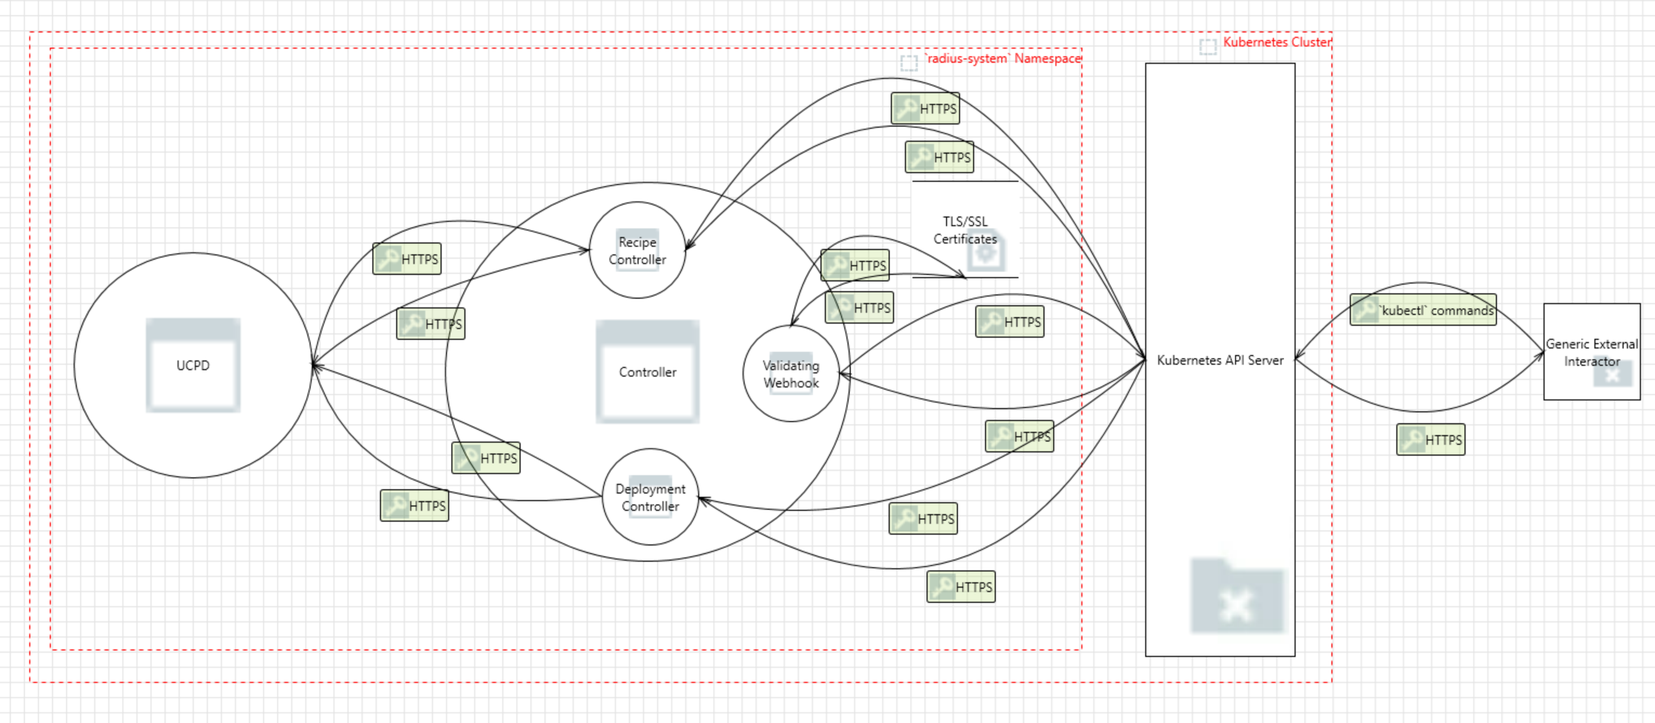
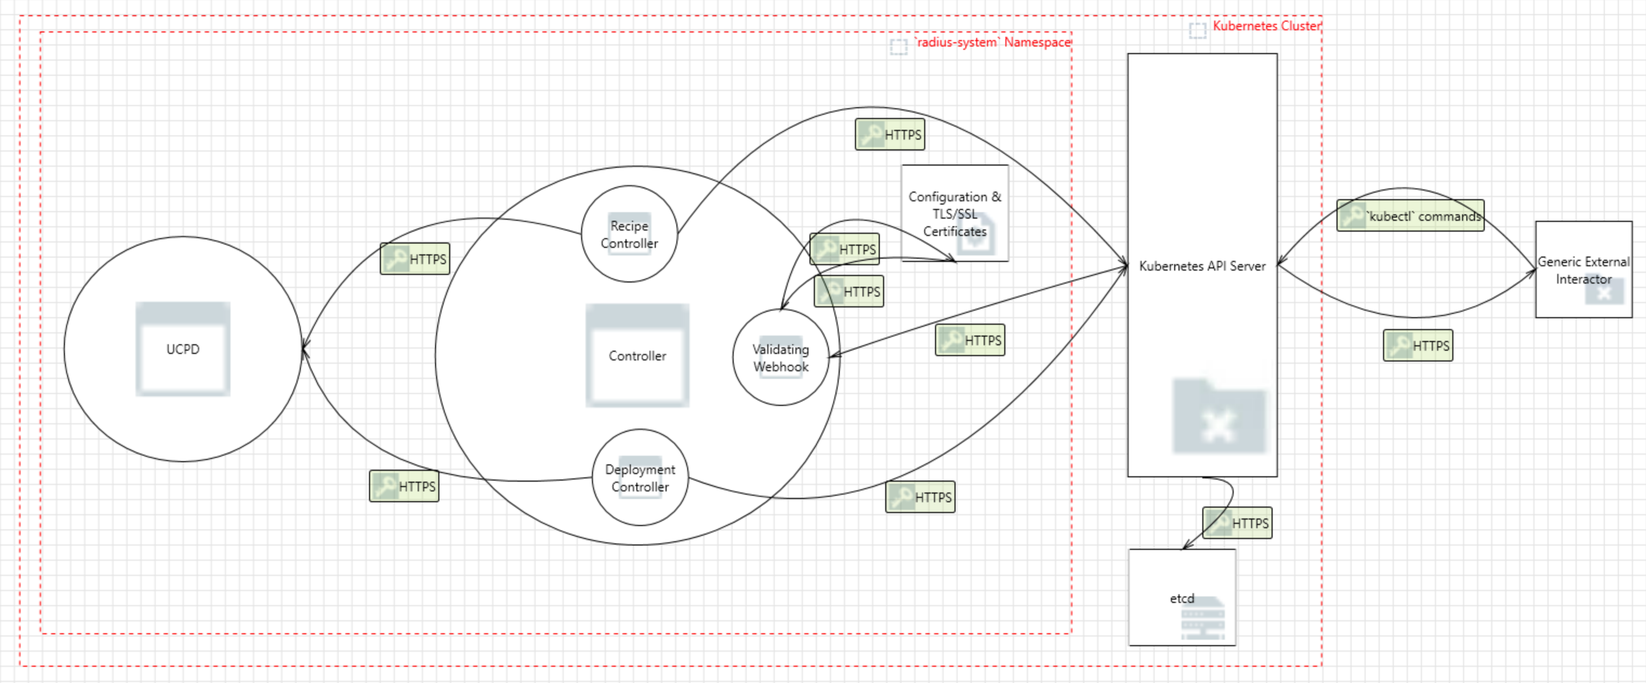
Addressing comments and updating the doc and the template

diff --git a/architecture/2024-08-controller-component-threat-model.md b/architecture/2024-08-controller-component-threat-model.md
@@ -10,36 +10,44 @@ The Radius Controller component monitors changes (create, update, delete) in the
 
 ## Terms and Definitions
 
-## System Description
+| Term                  | Definition                                                                                                                                                                                  |
+| --------------------- | ------------------------------------------------------------------------------------------------------------------------------------------------------------------------------------------- |
+| Admission Controllers | An admission controller is a piece of code that intercepts requests to the Kubernetes API server prior to persistence of the object, but after the request is authenticated and authorized. |
+| mTLS                  | Mutual Transport Layer Security (mTLS) allows two parties to authenticate each other during the initial connection of an SSL/TLS handshake.                                                 |
 
-The Controller component consists of two Kubernetes controllers (Recipe and Deployment controllers), a validating webhook for changes in the Recipe object, and several other important parts. We will dive into more details on the controller below.
+## System Description
 
 The Controller component is a critical part of the Radius system, responsible for managing Kubernetes resources through custom controllers and webhooks. It ensures that the desired state of the system is maintained by continuously monitoring and reconciling resources.
 
+The Controller component consists of two Kubernetes controllers (Recipe and Deployment controllers), a validating webhook for changes in the Recipe object, and several other important parts. We will dive into more details on the controller below.
+
 Note: If you would like to learn more about Kubernetes controllers, you can visit [this link](https://kubernetes.io/docs/concepts/architecture/controller/).
+
+Note: Kubernetes has [admission controllers](https://kubernetes.io/docs/reference/access-authn-authz/admission-controllers/) that intercept requests to the Kubernetes API Server before the persistence of the object. Admission controllers may be **validating**, **mutating**, or both. Here is a simple diagram of the flow from the command entered by the user to the persistence of the object to etcd.
+
+![Admission Controllers' Flow](./2024-08-controller-component-threat-model/admission-controllers-flow.png)
 
 ### Architecture
 
 The Controller component consists of several key parts:
 
-- **Recipe and Deployment Controllers**: Radius Kubernetes controllers registered with the manager. Each controller is responsible for watching specific Kubernetes resources (Recipe and Deployment) and reconciling their state.
+- **Recipe and Deployment Controllers**: Kubernetes controllers registered with the manager. Each controller is responsible for watching specific Kubernetes resources (Recipe and Deployment in our case) and reconciling their state.
   - **Recipe Controller**: This controller specifically watches for additions of and changes in Recipe objects in the cluster. The controller calls UCPD to perform the following operations:
     - Create, update, or delete a Recipe object based on the input received from the Kubernetes API Server.
     - Create, update, or delete a Secret if it is requested by the Recipe object.
   - **Deployment Controller**: This controller specifically watches for additions of and changes in Deployment objects in the cluster. The controller calls UCPD to perform the following operations:
     - Create, update, or delete a Deployment object based on the input received from the Kubernetes API Server.
     - Create, update, or delete a Secret if it is requested by the Deployment object.
-- **Recipe Validating Webhook**: [Used if TLS certificates are provided] This webhook is triggered by the Kubernetes API in case of a change in a Recipe resource. The Kubernetes API reaches out to this webhook in case of a creation, an update, or a deletion of a Recipe. The webhook tries to validate the action and responds to the Kubernetes API with an approval or a rejection. For more information about webhooks, refer to the [official documentation](https://kubernetes.io/docs/reference/access-authn-authz/extensible-admission-controllers/).
+- **Recipe Validating Webhook**: This webhook is triggered by the Kubernetes API Server in case of a create, update, or delete in a Recipe object. The webhook tries to validate the action and responds to the Kubernetes API with an approval or a rejection. For more information about webhooks, refer to the [official documentation](https://kubernetes.io/docs/reference/access-authn-authz/extensible-admission-controllers/).
 - **Health Checks**: Health checks are implemented to monitor the status and performance of the controllers. They ensure that the controllers are functioning correctly and can take corrective actions if any issues are detected.
 
 ### Clients
 
 In this section, we will discuss the different clients of the Controller component. Clients are systems that interact with the Controller component to trigger actions. Here are the clients of the Controller component:
 
-1. **Kubernetes API Server**: The primary client that interacts with the controller. It sends events related to resource changes (e.g., creation, update, or deletion of a Recipe or Deployment) to the controller manager. The controllers watch for these events and reconcile the state of the resources accordingly.
-2. **Validating Webhook Clients**: If webhooks are enabled and registered, clients that interact with the Kubernetes API server (e.g., `kubectl`, other controllers) can trigger webhook calls.
-3. **Health Check Probes**: Kubernetes itself can act as a client by performing health and readiness checks on the controller manager.
-4. **Metrics Scrapers**: If metrics are enabled, Prometheus or other monitoring tools can scrape metrics from the controller manager.
+1. **Kubernetes API Server**: The primary client that interacts with the controller. It communicates with the validating webhook and the controllers in case of resource changes (e.g., creation, update, or deletion of a Recipe or Deployment) requested by another interactor (for example; a human running `kubectl` commands). The controllers watch for these calls and reconcile the state of the resources accordingly.
+1. **Health Check Probes**: Kubernetes itself can act as a client by performing health and readiness checks on the controller manager.
+1. **Metrics Scrapers**: If metrics are enabled, Prometheus or other monitoring tools can scrape metrics from the controller manager.
 
 ## Trust Boundaries
 
@@ -57,166 +65,155 @@ The Kubernetes API Server, which is the main interactor of the Controller compon
 1. **Namespace Isolation**: Different namespaces separate and isolate resources and workloads within the Kubernetes cluster.
 2. **Access Controls**: Access controls and other permissions are implemented to manage interactions between namespaces.
 
-## Assets and Security Objectives
-
-### Assets
-
-1. **Kubernetes Resources**
-
-   - **Description**: Custom resources managed by the controllers: Recipes, and Deployments.
-   - **Importance**: These resources are critical for the operation of the Kubernetes cluster and the applications running on it. Unauthorized access or modification could lead to service disruptions or security breaches.
-
-1. **TLS Certificates**
-
-   - **Description**: Certificates used for securing communication between the validating webhook and the Kubernetes API server.
-   - **Importance**: Ensuring the confidentiality and integrity of communications. Compromised certificates could lead to man-in-the-middle attacks. [Related](https://stackoverflow.com/a/2109786).
-
-1. **Configuration Files**
-
-   - **Description**: Configuration files that define the behavior of the controllers and the webhook. We have a configuration file for the Controller component and certificates for the Validating Webhook.
-   - **Importance**: Incorrect or malicious configurations could lead to unintended behavior or security vulnerabilities.
-
-1. **Logs and Monitoring Data**
-   - **Description**: Logs and monitoring data generated by the controllers and webhook.
-   - **Importance**: Essential for auditing, troubleshooting, and detecting security incidents. Unauthorized access could lead to information disclosure or tampering.
-
-### Security Objectives
-
-1. **Confidentiality**
-
-   - **Objective**: Ensure that sensitive data, such as TLS certificates and configuration files, are accessible only to authorized entities.
-   - **Measures**: Implement access controls, encryption, and secure storage mechanisms.
-
-1. **Integrity**
-
-   - **Objective**: Ensure that Kubernetes resources, configuration files, and logs are not tampered with.
-   - **Measures**: Implement checksums, digital signatures, and access controls to prevent unauthorized modifications.
-
-1. **Availability**
-
-   - **Objective**: Ensure that the controllers and webhook are available and functioning correctly to maintain the desired state of the Kubernetes resources.
-   - **Measures**: Implement health checks, redundancy, and failover mechanisms to ensure high availability.
-
-1. **Authentication and Authorization**
-
-   - **Objective**: Ensure that only authenticated and authorized users and systems can interact with the controllers and webhook.
-   - **Measures**: Implement strong authentication mechanisms and fine-grained role-based access control (RBAC).
-
-1. **Auditability**
-
-   - **Objective**: Ensure that all actions performed by the controllers and webhook are logged and can be audited. This will also be good for debugging certain issues we may have in the Controller component.
-   - **Measures**: Implement comprehensive logging and monitoring, and ensure that logs are protected from tampering.
-
-1. **Compliance**
-   - **Objective**: Ensure that the system complies with relevant security standards and regulations.
-   - **Measures**: Regularly review and update security policies and procedures to align with industry standards and regulatory requirements.
-
 ## Data Flow
 
 ### Diagram
 
 ![Controller Component via Microsoft Threat Modeling Tool](./2024-08-controller-component-threat-model/controller-component.png)
 
-1. **Resource Creation/Update/Delete**: When a user requests to create, update, or delete a Recipe or a Deployment object, the request is sent to the Kubernetes API server. A user can do this request by using `kubectl` command.
-1. **Webhook Validation/Mutation**: If a custom webhook is configured, the request is intercepted by the webhook for validation. The webhook ensures that the resource complies with the required policies. You can see the details of the Recipe Webhook implementation via [this link](https://github.com/radius-project/radius/blob/main/pkg/controller/reconciler/recipe_webhook.go#L46).
-1. **Controller Reconciliation**: When the action (create/update/delete) is validated by the Validating Webhook as discussed in the previous step, Kubernetes API reaches out to the Controller component and triggers the necessary action. Then, the controllers reconcile the resource's state to match the desired configuration.
-1. **Communication with UCPD**: Controller also calls UCPD in some cases when doing reconcilations. Here is the list of instances where Controller calls UCPD:
+1. **Resource Creation/Update/Delete**: When a user requests to create, update, or delete a Recipe or Deployment object, the request is sent to the Kubernetes API Server. For example, this request can be made by a human interactor using the `kubectl` command. The Kubernetes API Server authenticates and authorizes the request before the admission controllers intercept it.
 
-   - Recipe Reconciler:
-     - Poll operations like create or delete a Recipe resource.
-     - Resolve dependencies for a Recipe resource:
-       - Get the Radius environment the Recipe is in.
-       - Create the Radius Resource Group if needed.
-       - Create the Radius Application if needed.
-     - Fetch a Radius resource.
-     - List Secrets of a Recipe resource.
-     - Delete a Recipe resource.
-   - Deployment Reconciler:
-     - Poll operations like create or delete a Deployment resource.
-     - Resolve dependencies for a Deployment resource:
-       - Get the Radius environment the Deployment is associated with.
-       - Create the Radius Resource Group if needed.
-       - Create the Radius Application if needed.
-     - Fetch a Recipe resource.
-     - List Secrets of a Recipe resource.
+2. **Validating Webhook**: The only type of admission controller we have in Radius is the validating webhook for the Recipe resource. The validating webhook ensures that the Recipe object is one of the Radius portable resources. If the operation and the object is validated, then it is persisted to the **etcd**. You can see the details of the Recipe Webhook implementation via [this link](https://github.com/radius-project/radius/blob/main/pkg/controller/reconciler/recipe_webhook.go#L46).
 
-1. **Communication with Kubernetes API Server**:
+3. **Controller Reconciliation**: When the action (create/update/delete) is validated by the Validating Webhook (applicable only to the Recipe resource and not to the Deployment resource) as discussed in the previous step, the Kubernetes controllers we have (Recipe and Deployment Reconcilers) watch for changes via the Kubernetes API Server. The controllers then reconcile the resource's state to match the desired configuration specified in the resource definition. This involves ensuring that the actual state of the cluster matches the desired state, making any necessary adjustments to achieve this.
 
-   - Recipe Reconciler:
-     - Fetch a Recipe object.
-     - Send events related to the operations.
-     - Update a Recipe object:
-       - Status update.
-       - Addition and removal of a Finalizer.
-     - Delete a Secret object that is associated with the Recipe.
-     - Create a Secret object to associate with the Recipe if needed.
-   - Deployment Reconciler:
-     - Fetch a Deployment object.
-     - Send events related to the operations.
-     - Update a Deployment object:
-       - Status update.
-       - Addition and removal of a Finalizer.
-     - Delete a Secret object associated with a Deployment that is no longer needed.
-     - Fetch a Secret object.
-     - Create or Update a Secret object and associate it with a Deployment object.
-     - List Deployments filtered with specific Recipe objects.
+4. **Communication with UCPD**: Controller also calls UCPD when doing reconcilations. Here is the list of instances where Controller calls UCPD:
 
-### Detailed Data Flows
+   1. Recipe Reconciler:
 
-#### Kubernetes API Server - Validating Webhook for the Recipe Resource
+      - Poll operations like create, update, or delete a Recipe resource.
+      - Resolve dependencies for a Recipe resource:
+        - Get the Radius environment the Recipe is associated with.
+        - Create the Radius Resource Group if needed.
+        - Create the Radius Application if needed.
+      - Fetch a Radius resource.
+      - List Secrets of a Recipe resource.
+      - Delete a Recipe resource.
 
-- **Assumptions**:
-  - TLS Certificates are defined on the startup of Controller component.
-- **Flow**:
-  1. Kubernetes API Server receives a request to create, update, or delete a Recipe object.
-  2. Kubernetes API Server sends the request to the Validating Webhook for validation.
-  3. The webhook evaluates the request and responds with an approval or a rejection.
-  4. If approved, Kubernetes API Server proceeds with the action. It sends the necessary information to the Recipe Controller.
-- **Risks and Mitigations**:
-  - **Risk**: Could someone inject dangerous data into the resource object that would also get an approval from the webhook?
-    - **Mitigation**: Implement comprehensive validation logic in the webhook to check for malicious data patterns, enforce strict schema validation, and sanitize inputs.
-  - **Risk**: What if the webhook server is unavailable or slow to respond?
-    - **Mitigation**: Configure timeouts and retries for webhook calls, and implement fallback mechanisms to handle webhook failures gracefully.
-    - **References**:
-      - <https://kubernetes.io/docs/reference/access-authn-authz/extensible-admission-controllers/#timeouts>
-      - <https://kubernetes.io/docs/reference/access-authn-authz/extensible-admission-controllers/#failure-policy>
-  - **Risk**: What if the TLS certificates used for securing communication are compromised?
-    - **Mitigation**: Implement strong certificate management practices, including regular rotation of certificates, using short-lived certificates, and monitoring for certificate anomalies.
-  - **Risk**: Could an insider with access to the webhook server modify its behavior to approve malicious requests?
-    - **Mitigation**: Implement strict access controls, audit logs, and monitoring for changes to the webhook server configuration and code.
-  - **Risk**: What if the webhook logic contains bugs that lead to incorrect validation decisions?
-    - **Mitigation**: Implement thorough testing, including unit tests, integration tests, and fuzz testing, to ensure the correctness of the webhook logic.
+   2. Deployment Reconciler:
 
-#### Kubernetes API Server - Radius Controllers - UCPD
+      - Poll operations like create, update, or delete a Deployment resource.
+      - Resolve dependencies for a Deployment resource:
+        - Get the Radius environment the Deployment is associated with.
+        - Create the Radius Resource Group if needed.
+        - Create the Radius Application if needed.
+      - Fetch a Recipe resource.
+      - List Secrets of a Recipe resource.
 
-- **Assumptions**:
-  - Change to a Recipe or Radius Deployment resource are validated by the Validating Webhook.
-- **Flow**:
-  1. The Kubernetes API Server communicates with the necessary controller to trigger the reconciler for the affected resource.
-  1. The controller calls the function that will perform the reconciliation for the given resource.
-  1. Based on the change, the controller can make calls to the UCPD to read details like resource information or secrets for the given resource, or to write the updated resource.
-  1. UCPD responds to the request of the controller. The controller continues the process of reconciliation for the resource.
-- **Risks and Mitigations**:
-  - **Risk**: Inconsistent state due to partial failures during reconciliation.
-    - **Mitigation**: Implement idempotent operations in the controller to ensure that repeated executions do not cause inconsistent state, and use transaction mechanisms where applicable.
-  - **Risk**: Unavailability of the UCPD.
-    - **Mitigation**: Implement high availability and redundancy for the UCPD, and use retry mechanisms with exponential backoff in the controller.
-  - **Risk**: Unauthorized access to the Kubernetes API Server.
-    - **Mitigation**: Implement strong authentication and authorization mechanisms, such as RBAC (Role-Based Access Control) and network policies to restrict access.
-  - **Risk**: Data tampering during communication between the controller and UCPD.
-    - **Mitigation**: Use TLS to encrypt communication between the controller and UCPD, and ensure proper certificate management.
-  - **Risk**: Controller logic errors leading to incorrect reconciliation.
-    - **Mitigation**: Implement thorough testing, including unit tests, integration tests, and end-to-end tests, to ensure the correctness of the controller logic.
-  - **Risk**: Performance bottlenecks due to high load on the controller.
-    - **Mitigation**: Optimize the controller code for performance, use efficient algorithms, and implement rate limiting to control the number of requests processed at a time.
-  - **Risk**: Security vulnerabilities in the controller code.
-    - **Mitigation**: Conduct regular security audits and code reviews, and follow secure coding practices to minimize vulnerabilities.
+5. **Communication with Kubernetes API Server**: Controller also calls the Kubernetes API Server when doing reconcilations. Here is the list of instances where Controller calls the Kubernetes API Server:
 
-## Residual Risks
+   1. Recipe Reconciler:
 
-<!--
-Identify any residual risks that remain after mitigations have been applied. Describe the potential impact and likelihood of these risks, and justify why they are considered acceptable.
--->
+      - Fetch a Recipe object.
+      - Send events related to the operations.
+      - Update a Recipe object:
+        - Status update.
+        - Addition and removal of a Finalizer.
+      - Delete a Secret object that is associated with the Recipe.
+      - Create a Secret object to associate with the Recipe if needed.
+
+   2. Deployment Reconciler:
+
+      - Fetch a Deployment object.
+      - Send events related to the operations.
+      - Update a Deployment object:
+        - Status update.
+        - Addition and removal of a Finalizer.
+      - Delete a Secret object associated with a Deployment that is no longer needed.
+      - Fetch a Secret object.
+      - Create or Update a Secret object and associate it with a Deployment object.
+      - List Deployments filtered with specific Recipe objects.
+
+### Threats
+
+#### Impersonation of Radius Controllers to trigger resource access
+
+Risk: An attacker can impersonate the Radius Controllers to talk to UCPD.
+
+Impact: The Controller Component and UCPD communicate in order to create/update/delete necessary resources and these resources can also be cloud resources. This can lead to loss of resources or creation/update of existing resources.
+
+Mitigation:
+
+1. **mTLS**: mTLS should be (and is) enabled for communication between the Controller and the UCPD.
+2. **Network Policies**: We can add necessary policies that UCPD can only accept communication from the Controller and other important components that it is should be talking to.
+
+#### Compromised TLS Certificates and private keys of the Validating Webhook
+
+Risk: If the TLS certificates and the private keys used by the validating webhook are compromised, an attacker could impersonate the webhook server, intercepting the requests from the Kubernetes API Server or altering the responses.
+
+Impact: The validating webhook functions should return an approval or a validation error to the caller. The impersonater can return incorrect responses to the Kubernetes API Server which could affect the lifecycle of resources.
+
+Risk: If the TLS certificates and the private keys used by the validating webhook are compromised, an attacker could enable unauthorized clients to communicate with the webhook.
+
+Impact: Unauthorized clients wouldn't have any affect in the lifecycle of resources because, even if the webhook returns an approval or a rejection to the unauthorized client, the unauthorized client should also have access to the Kubernetes API Server to further trigger changes in the resource.
+
+Mitigation:
+
+1. **mTLS (Mutual TLS)**: Implement mutual TLS to ensure that both the client (Kubernetes API Server) and the server (Validating Webhook) authenticate each other. This helps in verifying the authenticity of both parties and prevents unauthorized access. Note that mTLS is enabled for the communication between the Validating Webhook and the Kubernetes API Server in Radius as of now.
+2. **Network Policies**: Implement necessary Network Policies to ensure that communication between components is restricted to authorized components only. In this case, the Validating Webhook and the Kubernetes API Server should only accept requests from each other.
+3. **Strong Certificate Management**: Implement strong certificate management practices, including regular rotation of certificates, using short-lived certificates, and monitoring for certificate anomalies.
+4. **Secure Storage**: Store TLS certificates securely using secrets management solutions to prevent unauthorized access. The certificates and the private keys are being kept in a Secret object on Kubernetes.
+
+#### Compromised TLS Certificates and private keys of the Kubernetes API Server
+
+Risk: If the TLS certificates and private keys used by the Kubernetes API Server are compromised, an attacker could impersonate the Kubernetes API Server. This would allow the attacker to intercept, alter, or forge communication between the API Server and other components, including the Validating Webhook and Reconcilers. This could lead to unauthorized access, data breaches, and manipulation of cluster operations.
+
+Impact:
+
+1. The attacker could gain unauthorized access to sensitive data including the data it can get from the etcd if proper policies are not in place.
+2. The attacker can manipulate the operations of the cluster, causing unauthorized changes.
+
+Mitigation:
+
+1. **Network Policies**: Implement necessary Network Policies to ensure that communication between components is restricted to authorized components only. For example, the Validating Webhook should only accept requests from the original Kubernetes API Server.
+2. **Strong Certificate Management**: Implement strong certificate management practices, including regular rotation of certificates, using short-lived certificates, and monitoring for certificate anomalies.
+3. **Secure Storage**: Store TLS certificates securely using secrets management solutions to prevent unauthorized access. The certificates and the private keys are being kept in a Secret object on Kubernetes.
+
+#### Interception and manipulation of the communication between the webhook and the Kubernetes API Server
+
+**Risk:**
+
+1. An attacker could intercept and manipulate the communication between the webhook and the Kubernetes API Server. This could lead to unauthorized access, data breaches, or manipulation of admission decisions, potentially compromising the security and integrity of the Kubernetes cluster.
+
+**Mitigation:**
+
+1. **mTLS (Mutual TLS)**: Implement mutual TLS to ensure that both the client (Kubernetes API Server) and the server (Validating Webhook) authenticate each other. This helps in verifying the authenticity of both parties and prevents unauthorized access. Note that mTLS is enabled for the communication between the Validating Webhook and the Kubernetes API Server in Radius as of now.
+2. **Network Policies**: Use Kubernetes Network Policies to restrict the network traffic between the Kubernetes API Server and the webhook. This limits the exposure of the webhook to only trusted sources. Reference: <https://kubernetes.io/docs/concepts/services-networking/network-policies/>.
+
+#### An attacker gaining access to etcd and manually changing resources
+
+Risk: If an attacker gains access to etcd, they can manually change resources stored in the etcd datastore. This could lead to unauthorized access, data breaches, and manipulation of cluster operations.
+
+Mitigation:
+
+1. **Access Controls for etcd**: Implement strict access controls for etcd to ensure that only authorized components can access and modify its data.
+2. **Network and Firewall Policies**: Add the necessary Network and Firewall Policies to filter access to the etcd.
+3. **Audit Logs**
+4. **Encryption**
+
+#### Dangerous data hidden in the Recipe or Deployment resource
+
+Risk: When an external interactor sends a create or update request for a Recipe or Deployment, there is a risk that the interactor could hide dangerous data within the resource. This hidden data could potentially exploit vulnerabilities in the system, leading to security breaches or system malfunctions.
+
+Mitigation:
+
+1. **Use of Kubernetes Parser**: Radius relies on the parser provided by Kubernetes, which is well-tested and maintained. This reduces the risk associated with parsing malicious data.
+2. **Avoid Custom Parsers**: By not using custom or third-party parsers, Radius avoids the additional risk and complexity associated with ensuring the security of these parsers.
+3. **Fuzz Testing**: If a custom parser were to be used, it would be essential to implement fuzz testing. Fuzz testing involves providing invalid, unexpected, or random data inputs to the parser to identify potential vulnerabilities. For more information on fuzz testing, refer to [OWASP Fuzzing](https://owasp.org/www-community/Fuzzing).
+
+#### Users with access to the webhook server modifying the behavior of the webhook server
+
+Risk: Could an insider with access to the webhook server modify its behavior to approve malicious requests?
+
+Mitigation: Implement strict access controls, audit logs, and monitoring for changes to the webhook server configuration and code.
+
+#### Unauthorized access to the Kubernetes API Server
+
+- **Mitigation**: Implement strong authentication and authorization mechanisms, such as RBAC (Role-Based Access Control) and network policies to restrict access.
+
+#### Security vulnerabilities in the controller code
+
+- **Mitigation**: Conduct regular security audits and code reviews, and follow secure coding practices to minimize vulnerabilities.
 
 ## Open Questions
 
@@ -224,14 +221,21 @@ Identify any residual risks that remain after mitigations have been applied. Des
 List any unresolved questions or uncertainties about the threat model. Use this section to gather feedback from experts or team members and to track decisions made during the review process.
 -->
 
-## Alternatives Considered
+## Action Items
 
-<!--
-Discuss alternative approaches to the threat model or different mitigation strategies that were considered. Explain why the chosen approach was selected over the alternatives.
--->
+1. Check if TLS is enabled for every component to ensure secure communication. Make changes to the necessary components if required.
+2. Ensure that all communication uses mTLS (Mutual TLS) to authenticate both the client and server, providing an additional layer of security. Verify that mTLS is correctly configured for all components and endpoints. Make changes to the necessary components if required.
+3. Check if RBAC with Least Privilege is configured for every component to ensure that each component has only the permissions it needs to function. Make changes to the necessary components if required.
+4. Define and implement necessary Network Policies to ensure that communication is accepted only from expected and authorized components. Regularly review and update these policies to maintain security.
+5. Separate and firewall the etcd cluster to ensure the safety of the datastore. Implement network segmentation to isolate the etcd cluster from other components. Configure firewall rules to restrict access to the etcd cluster, allowing only authorized components and administrators to communicate with it. Regularly review and update firewall rules and network policies to maintain security.
+6. Containers should run as a non-root user wherever possible to minimize the risks. Check if we can run any of the Radius containers as non-root. Do the necessary updates.
 
 ## Review Notes
 
 <!--
 Update this section with the decisions and feedback from the threat model review meeting. Document any changes made to the model based on the review.
 -->
+
+## References
+
+1. <https://kubernetes.io/blog/2018/07/18/11-ways-not-to-get-hacked>
